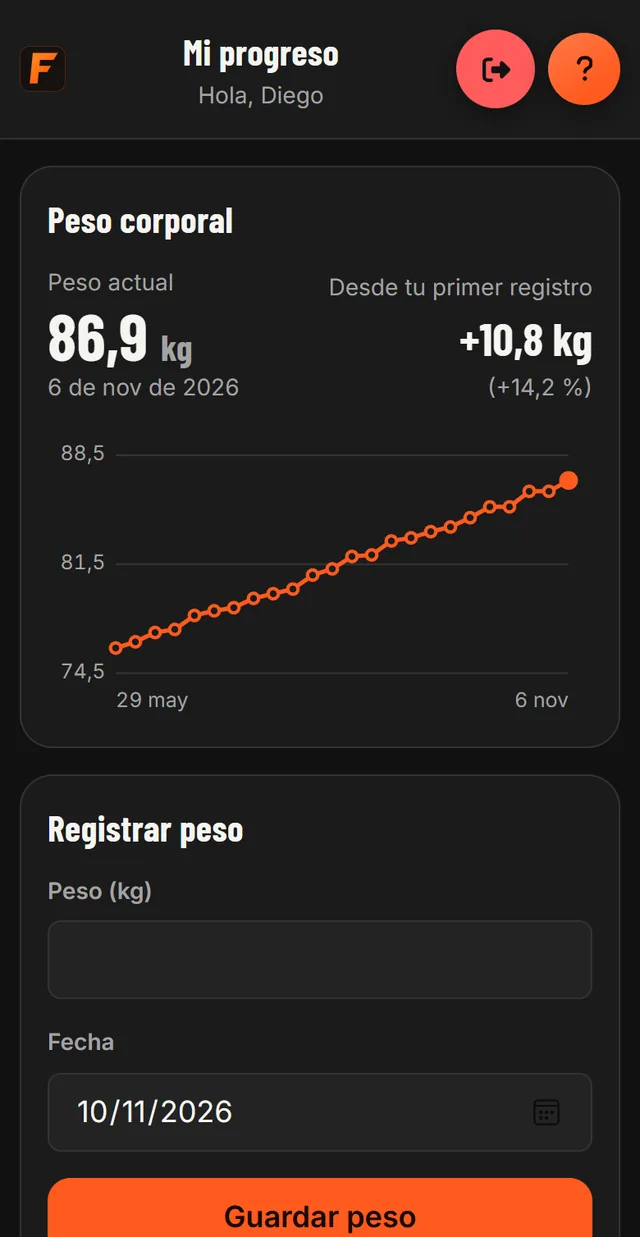
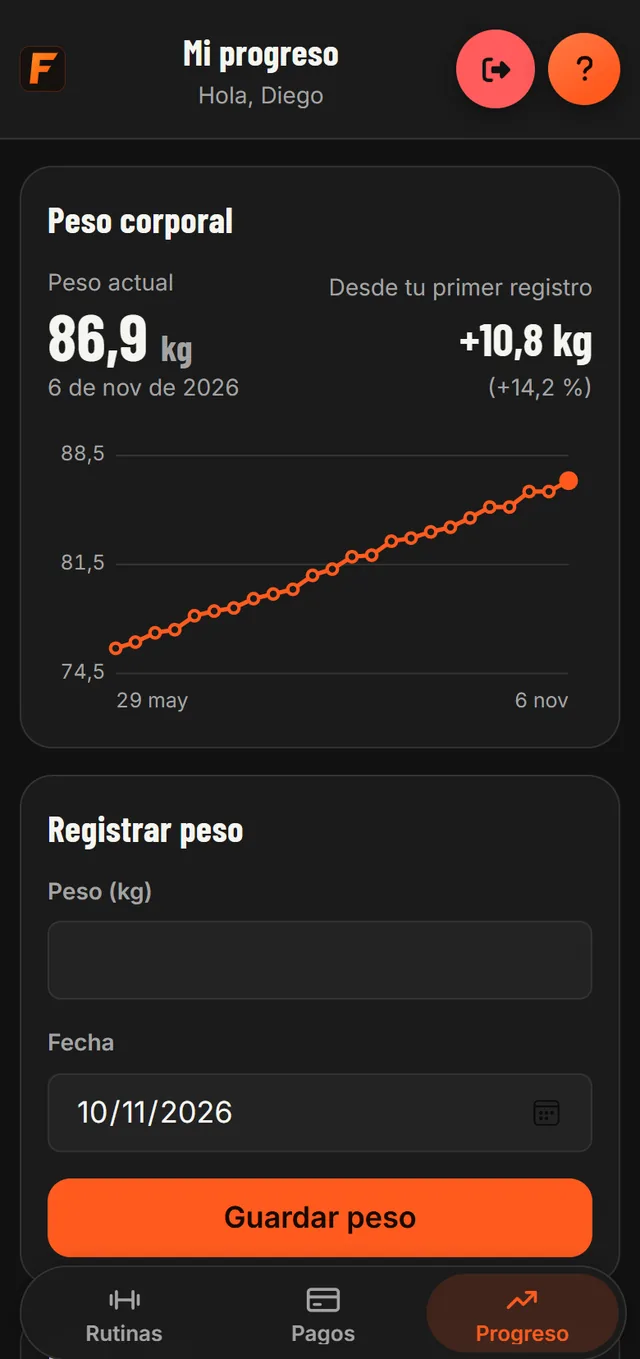
Capturas del alumno con la pantalla entera del celular
Las capturas de "Lo que ve tu alumno" se recortaban para que la sección
entrara en una pantalla. Ahora muestran la pantalla completa del celular
(con la barra de Rutinas, Pagos y Progreso), sin el brillo del panel
encima, y la sección crece lo que haga falta, así la de Informes queda
más abajo en vez de superponerse.

diff --git a/index.html b/index.html
@@ -90,25 +90,23 @@
   }
 
   /* pasos: capturas reales de la app en el panel de cada tarjeta */
-  #rutinas .panel, #alumno .panel { --p-h: 336px; background: #121212; }
-  @media (min-width: 640px) and (max-width: 1023px) { #rutinas, #alumno { --h: 2; } }
+  #rutinas .panel { --p-h: 336px; background: #121212; }
+  @media (min-width: 640px) and (max-width: 1023px) { #rutinas { --h: 2; } }
   @media (min-width: 1024px) { #rutinas .grid > .card, #alumno .grid > .card { grid-column: auto / span 4; } }
-  @media (min-width: 1024px) and (max-width: 1279px) { #rutinas .panel, #alumno .panel { --p-h: 250px; } }
-  @media (max-width: 639px) { #rutinas .panel, #alumno .panel { --p-h: 260px; } }
-  #rutinas .panel .frame__img, #alumno .panel .frame__img { object-fit: cover; object-position: left top; }
-  /* alumno: capturas verticales del celular, siempre en su proporción y pegadas arriba: el panel las corta
-     solo abajo (nunca a los costados); en tablet van a lo ancho de un celular y centradas */
-  #alumno .panel .frame__img { height: auto; bottom: auto; }
-  /* desde 1280 la sección mide justo una pantalla: las tarjetas ocupan lo que queda bajo el título y la
-     captura se achica con el alto de la pantalla (en una pantalla baja no se mete bajo la sección siguiente) */
-  @media (min-width: 1280px) {
-    #alumno .wrap > .grid:last-child { flex: 1 1 0; min-height: 0; }
-    #alumno .panel { --p-h: 140px; flex: 1 1 0; }
-  }
-  @media (min-width: 1024px) and (max-width: 1279px) { #alumno .panel { --p-h: 230px; } }
+  @media (min-width: 1024px) and (max-width: 1279px) { #rutinas .panel { --p-h: 250px; } }
+  @media (max-width: 639px) { #rutinas .panel { --p-h: 260px; } }
+  #rutinas .panel .frame__img { object-fit: cover; object-position: left top; }
+
+  /* alumno: cada captura es la pantalla entera del celular, sin recortes. Por eso esta sección no mide una
+     pantalla justa: crece lo que haga falta y empuja la siguiente más abajo. */
+  main > section#alumno { height: auto; min-height: 100vh; min-height: 100svh; }
+  main > section#alumno > .wrap { height: auto; }
+  #alumno .card > .panel { --p-h: 0px; min-height: 0; flex: none; margin-bottom: 0; border-radius: 12px; background: #121212; }
+  #alumno .panel .frame__img { position: static; display: block; width: 100%; height: auto; }
+  #alumno .panel::before, #alumno .panel::after { display: none; }   /* sin el brillo del panel encima de la captura */
+  /* en tablet, una tarjeta por fila: la captura al ancho de un celular, centrada */
   @media (min-width: 640px) and (max-width: 1023px) {
-    #alumno .panel { --p-h: 400px; }
-    #alumno .panel .frame__img { width: 292px; margin-inline: auto; }
+    #alumno .card > .panel { width: 320px; max-width: 100%; margin-inline: auto; }
   }
   /* el QR entero, centrado sobre el mismo fondo del modal de la app (antes el recorte lo cortaba a la derecha) */
   #rutinas .panel--qr { background: #1b1b1b; }
@@ -297,7 +295,7 @@
     </div>
   </section>
 
-  <section class="section" id="alumno" style="--hm: 2" aria-labelledby="alumno-h">
+  <section class="section" id="alumno" aria-labelledby="alumno-h">
     <div class="wrap">
       <div class="grid grid--top">
         <h2 class="span-5" id="alumno-h">Lo que ve tu alumno en su celular</h2>
@@ -307,17 +305,17 @@
         <article class="card card--row span-4">
           <h3>Sus rutinas del día</h3>
           <p>Elige la rutina de hoy y ve cuándo vence su cuota.</p>
-          <div class="panel"><img class="frame__img" src="assets/app/alumno-rutinas.webp" alt="Mis rutinas en el celular de Diego: Empuje, Tracción y Piernas, con 6 días para el vencimiento de su cuota" width="640" height="1237" loading="lazy" data-source="client" data-subject="Fortius, rutinas del alumno"></div>
+          <div class="panel"><img class="frame__img" src="assets/app/alumno-rutinas.webp" alt="Mis rutinas en el celular de Diego: Empuje, Tracción y Piernas, con 6 días para el vencimiento de su cuota" width="640" height="1359" loading="lazy" data-source="client" data-subject="Fortius, rutinas del alumno"></div>
         </article>
         <article class="card card--row span-4">
           <h3>Su progreso</h3>
           <p>Anota su peso, ve la curva y baja su informe en PDF.</p>
-          <div class="panel"><img class="frame__img" src="assets/app/alumno-progreso.webp" alt="Mi progreso de Diego: 86,9 kg, 10,8 kg más que en mayo, con el gráfico de su peso" width="640" height="1237" loading="lazy" data-source="client" data-subject="Fortius, progreso del alumno"></div>
+          <div class="panel"><img class="frame__img" src="assets/app/alumno-progreso.webp" alt="Mi progreso de Diego: 86,9 kg, 10,8 kg más que en mayo, con el gráfico de su peso" width="640" height="1359" loading="lazy" data-source="client" data-subject="Fortius, progreso del alumno"></div>
         </article>
         <article class="card card--row span-4">
           <h3>Sus pagos</h3>
           <p>Cada cuota pagada, con la fecha, el plan y el monto.</p>
-          <div class="panel"><img class="frame__img" src="assets/app/alumno-pagos.webp" alt="Mis pagos de Diego: las cuotas de octubre, septiembre y agosto con su monto" width="640" height="1237" loading="lazy" data-source="client" data-subject="Fortius, pagos del alumno"></div>
+          <div class="panel"><img class="frame__img" src="assets/app/alumno-pagos.webp" alt="Mis pagos de Diego: las cuotas de octubre, septiembre y agosto con su monto" width="640" height="1359" loading="lazy" data-source="client" data-subject="Fortius, pagos del alumno"></div>
         </article>
       </div>
     </div>
